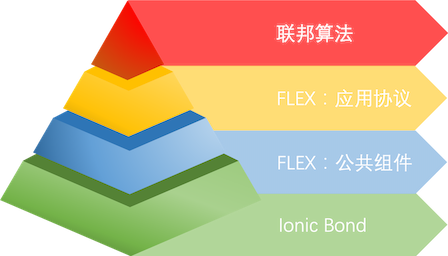
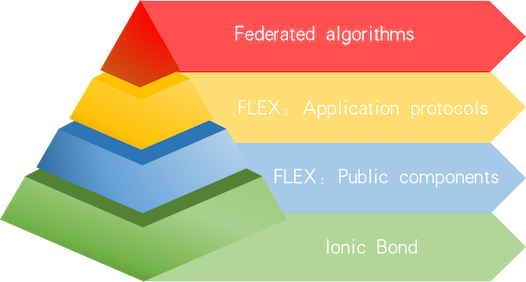
update: readme update

diff --git a/README.md b/README.md
@@ -1,68 +1,75 @@
+FLEX (Federated Learning Exchange) protocol is a set of standardized federal learning agreements designed by Tongdun AI Research Group. FLEX protocol sets the sequence of data exchange during the federal learning process between participants and methods for data encryption and decryption used before and after the exchange. Abiding by these agreements, participants can safely join the federation for providing data or federated services.
 
-FLEX(Federated Learning EXchange，FLEX)是同盾科技AI研究院为知识联邦体系设计并打造的一套标准化的联邦协议。
-FLEX协议约定了联邦过程中参与方之间的数据交换顺序，以及在交换前后采用的数据加解密方法。只要参与各方能够遵守这些约定，就可以安全地加入到联邦中提供数据或使用联邦服务。
-
-FLEX协议包括两层：
-1. 应用协议：这一层协议是面向联邦算法的，为联邦算法提供多方数据交换的应用支撑。
-协议中会约定多方间数据交换的顺序和采用的具体密码算法。联邦过程中采用的通信协议也会被封装在这里。
-2. 公共组件：是上层应用协议所依赖的基础密码算法和安全协议，比如同态加密、秘密分享等。
+FLEX protocol consists of two parts:
+1. Application protocols: This part of protocol is designed for federated algorithms, especially for supporting the multi-party federated learning algorithms. The protocol sets the sequence of data exchange between multiple parties and the corresponding cryptographic algorithm. The communication part, in federation process, is also  encapsulated here.
+2. Public components: This part is about the basic application algorithms and security agreement being dependent on upper-level application protocol, such as homomorphic encryption and secret sharing algorithm, etc.
 
 <div style="text-align: center;">
 
-![FLEX协议总览](doc/pic/FLEX-structure.png)
+![FLEX protocol](doc/pic/FLEX-structure.png)
 </div>
 
-本项目实现了FLEX白皮书中的应用协议和公共组件，其中通信接口使用同盾科技AI研究院自研的Ionic Bond协议接口，本项目仅给出了一种简单实现作为参考。
+This project realizes these two parts, mentioned by the FLEX white paper. As for the communication part, we use the Ionic Bond protocol interface, developed by Tongdun AI Research Group, as the practice interface. It only gives you a simple implementation as a reference.
 
-# 安装教程
+# Installation tutorial
 
-FLEX协议可源码直接运行，支持Python3.6以上运行环境，并设置环境变量
+FLEX protocol can be run directly with the source code. It supports Python 3.6 or any higher version and is available for environment variable settings.
+
 ```console
 export PYTHONPATH="/path/to/flex"
 ```
-安装基本的依赖库，以Ubuntu系统为例：
+
+Firstly, install the basic dependent libraries, taking the Ubuntu system as an example:
 
 `apt install libgmp-dev, libmpfr-dev, libmpc-dev`
 
 `pip install numpy`,`gmpy2`,`pycryptodome`,`scikit_learn`,`py_ecc`,`pandas`
 
-即可运行协议。
+Through the tools provided in FLEX is also available. Run it through source directory with:
 
-用户也可通过FLEX中提供的工具将其安装到系统中.在源码目录运行：
 ```console
 pip install .
 ```
-进行安装，然后可通过`from flex.api import *`来调用协议。
 
-# 运行测试
-FLEX提供了基本的测试代码，主要用于测试协议中的通信是否正常运行。通常情况下，用户需在三台主机上安装FLEX协议，分别扮演Coordinator, Guest, Host角色，用户需根据实际的主机hostname/ip修改federal_info，然后运行测试程序。FLEX也提供了单机模式，用于在一台机器上模拟测试协议运行。具体的测试说明见[test_intro](doc/test_intro.md)。
+After installation, the protocol can be imported by:
 
-# API与文档
-对于上层协议，通过统一的api进行调用，典型的流程是通过make_protocol得到协议实例，使用exchange方法来执行协议。以安全聚合为例：
+```console
+from flex.api import *
+```
+
+# Test
+FLEX provides basic test program, aiming to check the protocols during the running process. Generally, users need to install the FLEX protocol on three machines, playing the roles of Coordinator, Guest, and Host respectively. Before running the test program, users need to modify the “federal_info” according to their actual hostname or ip. There is also a stand-alone mode for users to simulate the whole process on one machine. See the [test_intro](doc/test_intro.md) for more details.
+
+
+# API and documentation
+FLEX uses a unified API to import the upper-layer part of the protocol, while the typical process is getting the instance through “make_protocol”, and executing it by using “exchange”. Taking security aggregation as an example:
+
 ```python
 from flex.api import make_protocol
 from flex.constants import OTP_SA_FT
 
-# 初始化
+# initialization
 protocol = make_protocol(OTP_SA_FT, federal_info, sec_param, algo_param)
-# 执行
+# excute
 protocol.exchange(theta)
 ```
-其中，federal_info为联邦参与方信息，sec_param为协议的安全参数，规定了协议中使用的密码方法、密钥长度等，algo_param为算法超参数，也可以为空。Theta是协议执行时的输入，具体的参数说明及协议使用请参考[api_intro](doc/api_intro.md)。
 
-对于公共组件部分，通过flex.crypto中相应的模块api进行调用，如paillier同态加密算法的调用如下：
+In the example, federal_info means the federal participant information; sec_param means the security parameter of the protocol, which specifies the cryptographic method and key length used in the protocol; algo_param means the algorithm hyperparameter, which can also be empty; Theta is the input of the protocol. See the [api_intro](doc/api_intro.md) for more details of parameter description and usage instructions.
+About public components, it can be imported from “flex.crypto” in module API. Taking Paillier homomorphic encryption algorithm as an example:
+
+
 ```python
 from flex.crypto.paillier.api import generate_paillier_encryptor_decryptor
 
-# 生成加密器和解密器
+# Generate Encryptor and Decryptor
 pe, pd = generate_paillier_encryptor_decryptor(n_length = 2048)
-# 加密
+# encryption
 en_x = pe.encrypt(x)
 en_y = pe.encrypt(y)
-# 求和
+# sum
 en_z = en_x + en_y
-# 解密
+# decrypt
 z = pd.decrypt(en_z)
 ```
 
-各公共组件的具体使用请参考[crypto_intro](doc/crypto_api_intro.md)。
+See the [crypto_intro](doc/crypto_api_intro.md) for more details of public components.
